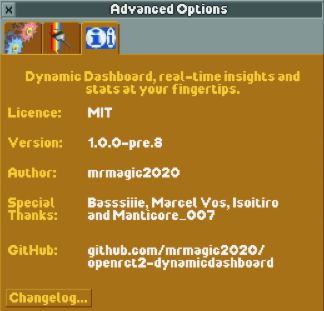
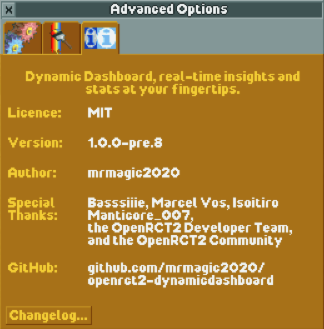
chore: update special thanks list (#66)
* chore: update special thanks list

* chore: update info tab screenshot

diff --git a/src/common/plugin.ts b/src/common/plugin.ts
@@ -13,15 +13,16 @@ namespace DynamicDashboard {
     "Basssiiie",
     "Marcel Vos",
     "Isoitiro",
-    "Manticore_007"
+    "Manticore_007",
+    "the OpenRCT2 Developer Team",
+    "the OpenRCT2 Community"
   ]
   export const specialThanksWrapped: string = specialThanks.reduce(
     (acc, cur, i) => {
-      if (i === specialThanks.length - 1) {
-        if (i % 3 === 0) {
-          return acc + "\nand " + cur
-        }
-        return acc + ", and " + cur
+      if (i === specialThanks.length - 2) {
+        return acc + ",\n" + cur
+      } else if (i === specialThanks.length - 1) {
+        return acc + ",\nand " + cur
       } else {
         if (i % 3 === 0) {
           return acc + "\n" + cur

diff --git a/src/ui/advanced/tabs/tab_info.ts b/src/ui/advanced/tabs/tab_info.ts
@@ -55,7 +55,7 @@ export const tab_info = function () {
               text: language.ui.advanced.tabs.info.label.special_thanks
             }),
             label({
-              height: 28,
+              height: 14 * 3,
               text: "{WHITE}" + DynamicDashboard.specialThanksWrapped
             })
           ]),
